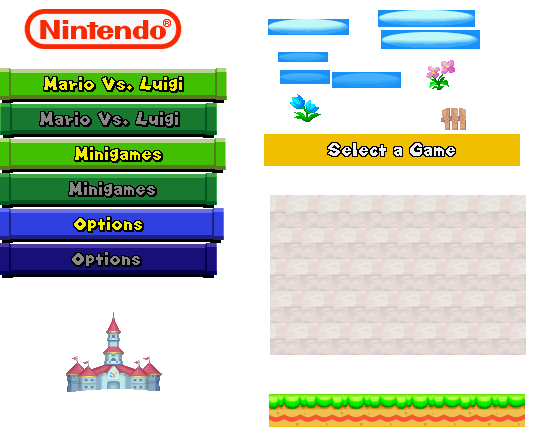
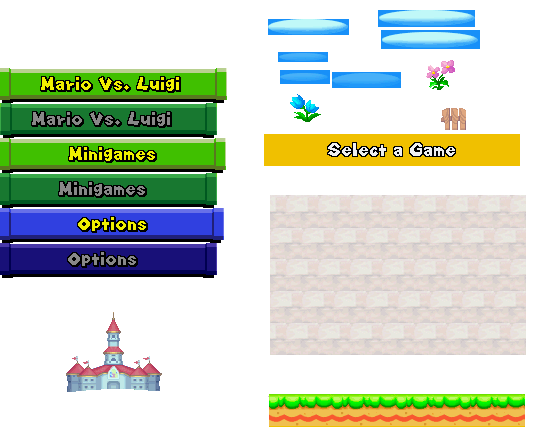
Added a background, also made the buttons linked coordinates wise (this could change)

diff --git a/src/main.cpp b/src/main.cpp
@@ -23,6 +23,8 @@ int main(void) {
     const int highlightedPipeHeight = 35;
     const int unhighlightedPipeWidth = 217;
     const int unhighlightedPipeHeight = 35;
+    const int backgroundWidth = 256;
+    const int backgroundHeight = 160;
 
     // Set up the CWD
     char * result = new char[sizeof(currentDir) + sizeof(titleScreenAsset)];
@@ -33,16 +35,18 @@ int main(void) {
     InitWindow(SCREEN_WIDTH, SCREEN_HEIGHT, "Mario vs Luigi - Title Screen");
 
     // Load the Title Screen assets (NOTE: This path needs to be hard coded for macOS, will find a fix later)
-    Image asset = LoadImage(result);
+    Image asset = LoadImage("/Users/ndymario/Desktop/Programming/C/MvsL-Recoded/assets/title/title_screen_assets.png");
 
     // Define the rectangles for the bounding boxes of the buttons. (Also used for cropping)
     // Y pos of first buttton in the .png is 68
+    // BG Coords (270, 195)
     Rectangle mvslHighlightedBox = { 0, 68, highlightedPipeWidth, highlightedPipeHeight };
     Rectangle mvslUnhighlightedBox = { 0, 68 + highlightedPipeHeight, unhighlightedPipeWidth, unhighlightedPipeHeight };
     Rectangle minigameHighlightedBox = { 0, 68 + (highlightedPipeHeight * 2), highlightedPipeWidth, highlightedPipeHeight };
     Rectangle minigameUnhighlightedBox = { 0, 68 + (highlightedPipeHeight * 3), unhighlightedPipeWidth, unhighlightedPipeHeight };
     Rectangle optionsHighlightedBox = { 0, 68 + (highlightedPipeHeight * 4), highlightedPipeWidth, highlightedPipeHeight };
     Rectangle optionsUnhighlightedBox = { 0, 68 + (highlightedPipeHeight * 5), unhighlightedPipeWidth, unhighlightedPipeHeight };
+    Rectangle backgroundBox = { 270, 195, backgroundWidth, backgroundHeight};
 
     // Create Textures for drawing to the screen
     Texture2D titleAsset = LoadTextureFromImage(asset);
@@ -69,13 +73,16 @@ int main(void) {
         int optionsHover = 0;
 
         // Declare some bounding boxes for the title screen buttons
-        Rectangle mvslButton = { SCREEN_WIDTH/4, 0, highlightedPipeWidth, highlightedPipeHeight };
-        Rectangle minigameButton = { SCREEN_WIDTH/4, highlightedPipeHeight, highlightedPipeWidth, highlightedPipeHeight };
-        Rectangle optionsButton = { SCREEN_WIDTH/4, highlightedPipeHeight * 2, highlightedPipeWidth, highlightedPipeHeight };
+        Rectangle mvslButton = { SCREEN_WIDTH/4 + 20, backgroundHeight, highlightedPipeWidth, highlightedPipeHeight };
+        Rectangle minigameButton = { mvslButton.x, mvslButton.y + highlightedPipeHeight, highlightedPipeWidth, highlightedPipeHeight };
+        Rectangle optionsButton = { mvslButton.x, minigameButton.y + highlightedPipeHeight, highlightedPipeWidth, highlightedPipeHeight };
 
         Vector2 mvslButtonCoords = { mvslButton.x, mvslButton.y };
         Vector2 minigameButtonCoords = { minigameButton.x, minigameButton.y };
         Vector2 optionsButtonCoords = { optionsButton.x, optionsButton.y };
+
+        // Make a position vector for the background
+        Vector2 backgroundCoords = { SCREEN_WIDTH/4, backgroundHeight};
 
         // Load button sounds
         Sound buttonSound = LoadSoundFromWave(LoadWave("/Users/ndymario/Desktop/Programming/C/MvsL-Recoded/assets/sounds/Mario/whoohoo.wav"));
@@ -137,6 +144,7 @@ int main(void) {
             //----------------------------------------------------------------------------------
             BeginDrawing();
             ClearBackground(BLACK);
+            DrawTextureRec(titleAsset, backgroundBox, backgroundCoords, WHITE);
             DrawTextureRec(titleAsset, mvslHover ? mvslHighlightedBox : mvslUnhighlightedBox, mvslButtonCoords, WHITE);
             DrawTextureRec(titleAsset, minigameHover ? minigameHighlightedBox : minigameUnhighlightedBox, minigameButtonCoords, WHITE);
             DrawTextureRec(titleAsset, optionsHover ? optionsHighlightedBox : optionsUnhighlightedBox, optionsButtonCoords, WHITE);
